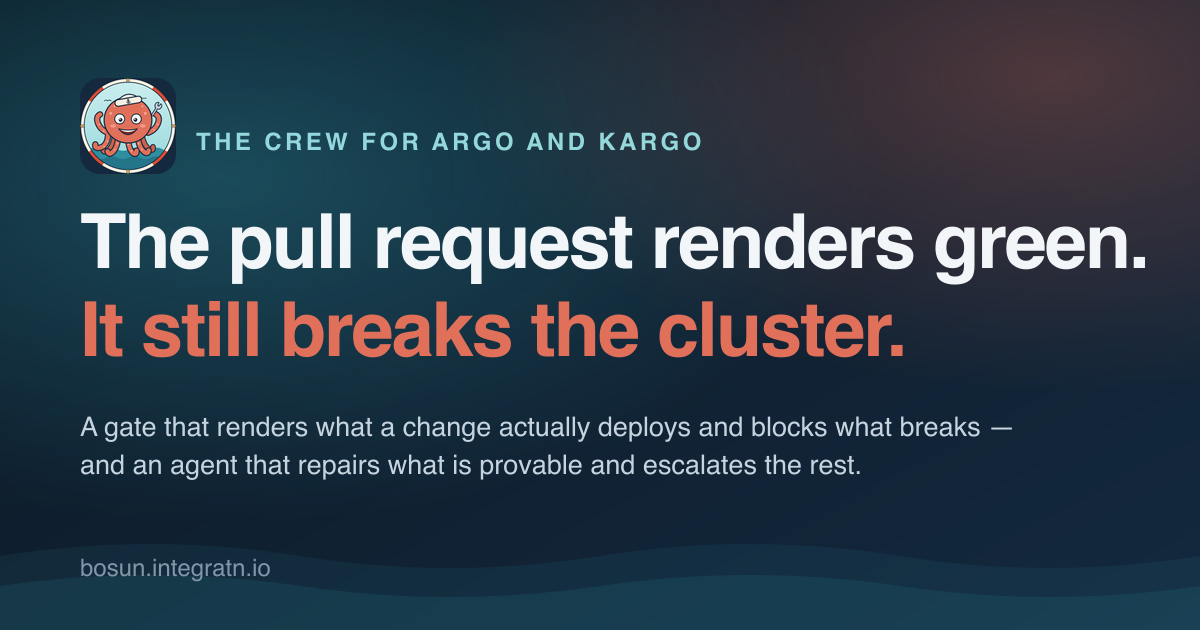
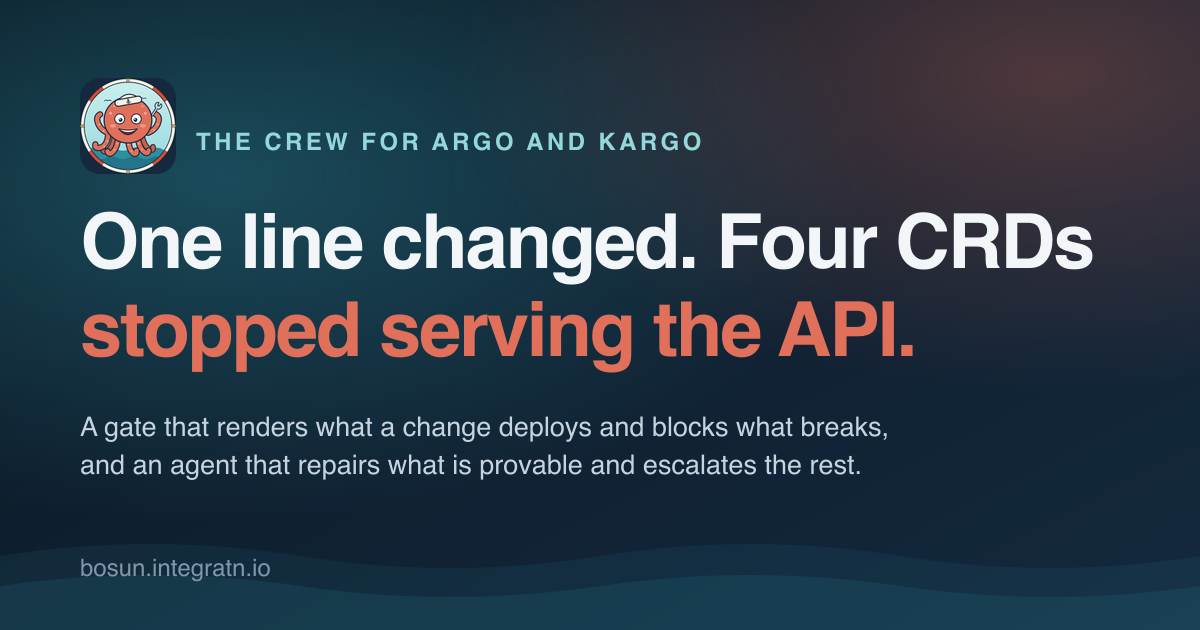
docs(site): the pass reaches the files the first one could not see
The first sweep matched `*.md` and `#`/`//` comments. That is why the
landing page still read like a brochure: it is `.mdx`. So did the Hero
and LoopDiagram components (`.astro`), the sync and link-check scripts
(`.mjs`), the stylesheets, `flake.nix`, the chart schema descriptions,
and every Helm template comment, which is `{{- /* ... */ -}}` and not
`#`. The demo narration in `local/scripts/` was missed for a different
reason: it lives in `say`/`step`/`ok` strings rather than comments, and
a human reads all of it.

Reading the landing page against the code it describes turned up three
things:

- It claimed eight ADRs and five levers. There are nine in `adr/` and
  six in docs/prompt-contract.md.
- Its safety strip said the model returns "a proposed edit set". It has
  returned complete migrated documents since ADR 0007.
- The link-preview card and the hero led on different lines.

Node 22 joins the dev shell, which is the reason the last two PRs said
"not run locally: the site build". It is a required check that could
only run on the runner, and `npm run og` regenerates a committed PNG, so
it wanted a pinned Node rather than whatever the host had. `og.png` is
regenerated here and now matches the hero. CONTRIBUTING lists the site
commands under Checks.

Both charts bump a patch: their template comments and schema
descriptions changed, and 0.23.1 and 0.2.1 published on the last merge.
Neither appVersion moves.
[…]

Changed region(s): [[0.0617, 0.3317, 0.9558, 0.4524], [0.0617, 0.4825, 0.7708, 0.6032], [0.4008, 0.6635, 0.8325, 0.6937]]

diff --git a/site/src/styles/theme.css b/site/src/styles/theme.css
@@ -1,7 +1,7 @@
 /* ---------------------------------------------------------------------------
    Bosun brand theme.
 
-   Every colour here is lifted from docs/avatar/bosun.svg -- the badge navy,
+   Every colour here is lifted from docs/avatar/bosun.svg: the badge navy,
    the two sea tones, the coral of the tentacles, the cream of the sailor cap.
    The mark and the site are the same palette because they were the same
    decision.
@@ -43,8 +43,8 @@
 
   --bo-radius: 10px;
 
-  /* Wider than Starlight's 45rem default. These docs are table-heavy -- the
-     guarantee/mechanism table, the values reference -- and 45rem forced every
+  /* Wider than Starlight's 45rem default. These docs are table-heavy, the
+     guarantee/mechanism table and the values reference among them, and 45rem forced every
      one of them into a horizontal scroll. */
   --sl-content-width: 50rem;
 }
@@ -272,9 +272,9 @@ starlight-toc a[aria-current='true'] {
   text-decoration-color: var(--sl-color-text-accent);
 }
 
-/* Tables carry most of the real content in these docs -- the guarantee/mechanism
+/* Tables carry most of the content in these docs: the guarantee/mechanism
    table, the finding tables, the exit codes. They deserve to be readable rather
-   than merely present. */
+   than only present. */
 .sl-markdown-content table:not(:where(.not-content *)) {
   display: block;
   overflow-x: auto;
@@ -285,7 +285,7 @@ starlight-toc a[aria-current='true'] {
   font-size: var(--sl-text-sm);
 }
 
-/* A value or env-var name must never break across lines -- it is the thing the
+/* A value or env-var name must never break across lines, because it is the thing the
    reader is going to copy, and the browser will otherwise squeeze a
    four-column table until `git.provider` wraps mid-identifier. The table
    scrolls inside its own box (above), so widening these columns costs a

diff --git a/site/src/styles/landing.css b/site/src/styles/landing.css
@@ -103,7 +103,7 @@
 }
 
 /* `background-clip: text` paints only inside the inline box, and Space Grotesk
-   hangs the arm of an `r` past its advance width -- so an `r` ending a line of
+   hangs the arm of an `r` past its advance width, so an `r` ending a line of
    "breaks the cluster" lost its arm to the clip. The padding widens the paint
    area, the matching negative margin keeps the text where it was, and the
    cloned decoration break gives every wrapped line the same room rather than
@@ -369,7 +369,7 @@
 
 /* Every other section is tinted, which is what tells the eye where one
    argument ends and the next begins. The rules top and bottom carry the edge
-   where the tint alone is close to the page colour -- in light theme it is
+   where the tint alone is close to the page colour; in light theme it is
    nearly the same cream. */
 .bo-section:nth-of-type(even) {
   background: var(--bo-band);

diff --git a/edits/apply.go b/edits/apply.go
@@ -274,9 +274,9 @@ func setScalar(data []byte, key, want, to string) ([]byte, error) {
 		// the model could overwrite any scalar in any permitted file without
 		// having read it, while the schema, the prompt and this package's own
 		// documentation all promised the current value was checked first. An
-		// actually-empty scalar is not a special case; it matches "" exactly
-		// and always did.
-		return nil, fmt.Errorf("key %q holds %q, not the expected %q -- refusing to overwrite", key, node.Value, want)
+		// empty scalar is not a special case; it matches "" exactly and always
+		// did.
+		return nil, fmt.Errorf("key %q holds %q, not the expected %q; refusing to overwrite", key, node.Value, want)
 	}
 
 	lines := strings.Split(string(data), "\n")

diff --git a/gate/inventory.go b/gate/inventory.go
@@ -73,8 +73,8 @@ func (inv *Inventory) Validate(selectorKeys []string, knownAbsent []string) erro
 	sort.Strings(unknown)
 	return fmt.Errorf(
 		"selectors match on label(s) no cluster in the inventory carries: %s\n\n"+
-			"Either the inventory is stale -- re-run `gitops-gate clusters export` --\n"+
-			"or those labels genuinely exist nowhere, in which case the Applications\n"+
+			"Either the inventory is stale (re-run `gitops-gate clusters export`)\n"+
+			"or no cluster carries those labels, in which case the Applications\n"+
 			"selecting on them are generated for no cluster at all and that is worth\n"+
 			"knowing.\n\n"+
 			"If it is deliberate, list them under `clustersExport.knownAbsentLabels`\n"+

diff --git a/pipeline/metrics.go b/pipeline/metrics.go
@@ -36,7 +36,7 @@ func (r *Report) Metrics(w io.Writer) {
 	fmt.Fprintf(w, "bosun_pipeline_sweep_timestamp_seconds %d\n", r.At.Unix())
 
 	writeHeader(w, "bosun_pipeline_checked", "gauge",
-		"How many objects the last sweep actually read, by resource. Zero Stages means nothing was proved.")
+		"How many objects the last sweep read, by resource. Zero Stages means nothing was proved.")
 	for _, kv := range []struct {
 		res string
 		n   int

diff --git a/hack/check_links.py b/hack/check_links.py
@@ -70,7 +70,7 @@ def main(root_arg: str) -> int:
                     problems.append((rel_md, lineno, target, "does not exist"))
 
     for rel_md, lineno, target, why in problems:
-        print(f"        {rel_md}:{lineno}: {target} -- {why}", file=sys.stderr)
+        print(f"        {rel_md}:{lineno}: {target}: {why}", file=sys.stderr)
 
     return 1 if problems else 0
 

diff --git a/gate/cmd/gitops-gate/main.go b/gate/cmd/gitops-gate/main.go
@@ -73,7 +73,7 @@ func main() {
 }
 
 func usage() {
-	fmt.Fprint(os.Stderr, `gitops-gate -- what does this pull request actually change?
+	fmt.Fprint(os.Stderr, `gitops-gate: what does this pull request change?
 
   render    Expand every ApplicationSet into the Applications it generates.
   diff      Compare two renders. Fails when cluster targeting changed.

diff --git a/config_test.go b/config_test.go
@@ -93,7 +93,7 @@ func TestTheLegacyAuthorIsIgnoredNotHonored(t *testing.T) {
 
 	chosen := &Config{AuthorName: "release-bot", AuthorEmail: "1234+release-bot@users.noreply.github.com"}
 	if chosen.NormaliseLegacyAuthor() {
-		t.Fatal("an identity somebody actually chose must be honored")
+		t.Fatal("an identity somebody chose must be honored")
 	}
 }
 

diff --git a/CHANGELOG.md b/CHANGELOG.md
@@ -5,6 +5,13 @@ All notable changes to `bosun`. Format follows
 
 ## [Unreleased]
 
+### Added
+
+- **Node 22 in the dev shell.** The site is a required check and its build was
+  not runnable from `nix develop`, so `npm run build` and `npm run check:links`
+  only ever ran on the CI runner. `npm run og` regenerates a committed PNG, so
+  it wanted a pinned Node too. `CONTRIBUTING.md` lists both under Checks now.
+
 ### Changed
 
 - **Every doc and code comment in the repository is edited for one voice.** No
@@ -13,6 +20,13 @@ All notable changes to `bosun`. Format follows
   on `*.go` touches comment lines and nothing else, and the report strings the
   agent parses back are unchanged. `adr/` and the changelogs keep their own
   voice.
+- **The site's own source gets the voice pass the docs already had.** The
+  landing page, the Hero and LoopDiagram components, the Astro config, the sync
+  and link-check scripts, the stylesheets, the Helm template comments, the
+  chart schema descriptions, the demo narration in `local/scripts/`, and
+  `flake.nix`. The first pass matched `*.md` and `#`/`//` comments, so `.mdx`,
+  `.astro`, `.mjs`, `.css`, `.tpl` and Helm's `{{- /* ... */ -}}` were never
+  looked at.
 
 ### Fixed
 
@@ -27,6 +41,15 @@ All notable changes to `bosun`. Format follows
   from an earlier edit, with the word missing from the sentence above it.
 - **`agent/comment.go` had two doc comments for `renderMigration`**, the second
   restating and contradicting the first.
+- **The landing page claimed eight ADRs and five levers.** There are nine ADRs
+  in `adr/`, and `docs/prompt-contract.md` has six levers. Both counts were
+  stale rather than wrong when written.
+- **The landing page's safety strip described the model's proposal as an edit
+  set.** It has been able to return a complete migrated document since
+  [ADR 0007](adr/0007-structure-from-the-schema-data-from-the-document.md); the
+  page now says so.
+- **The link-preview card and the landing hero disagreed.** Both now lead on
+  the same finding, and `og.png` is regenerated from the pinned Node.
 
 ## [0.23.0] - 2026-08-28
 

diff --git a/CONTRIBUTING.md b/CONTRIBUTING.md
@@ -125,7 +125,15 @@ gofmt -l .                 # must print nothing
 go vet ./...
 hack/lint.sh               # helm lint + values.schema.json validation
 hack/portability-test.sh   # no environment assumptions; everything renders
+
+cd site && npm ci          # once
+npm run build              # the site, from the markdown in this repository
+npm run check:links        # after a build
 ```
+
+The site build is a required check and it is in the dev shell, so run it
+before pushing anything that renames a heading or moves a published file.
+Those break the site rather than the doc, and only at build time.
 
 `hack/portability-test.sh` is the successor to an extraction test that enforced
 a one-way link rule while this package still lived inside the platform

diff --git a/charts/kargo-pipelines/CHANGELOG.md b/charts/kargo-pipelines/CHANGELOG.md
@@ -3,6 +3,16 @@
 All notable changes to `kargo-pipelines`. Format follows
 [Keep a Changelog](https://keepachangelog.com/en/1.1.0/); versioning is semver.
 
+## [0.2.2] - 2026-08-29
+
+### Changed
+
+- **Comments in `_helpers.tpl` and `stage.yaml`, and the `values.schema.json`
+  descriptions** get the voice pass the README and `values.yaml` already had.
+  Helm template comments were missed the first time because they are
+  `{{- /* ... */ -}}` rather than `#`. No template, value, default or schema
+  constraint changed.
+
 ## [0.2.1] - 2026-08-29
 
 ### Changed

diff --git a/charts/bosun/CHANGELOG.md b/charts/bosun/CHANGELOG.md
@@ -3,6 +3,16 @@
 All notable changes to the `bosun` chart. Format follows
 [Keep a Changelog](https://keepachangelog.com/en/1.1.0/); versioning is semver.
 
+## [0.23.2]
+
+### Changed
+
+- **Comments in the templates and descriptions in `values.schema.json`** get
+  the same voice pass the README and `values.yaml` already had. The Helm
+  template comments were missed the first time because they are
+  `{{- /* ... */ -}}` rather than `#`. No template, value, default or schema
+  constraint changed, and `appVersion` stays at 0.23.0.
+
 ## [0.23.1]
 
 ### Changed
